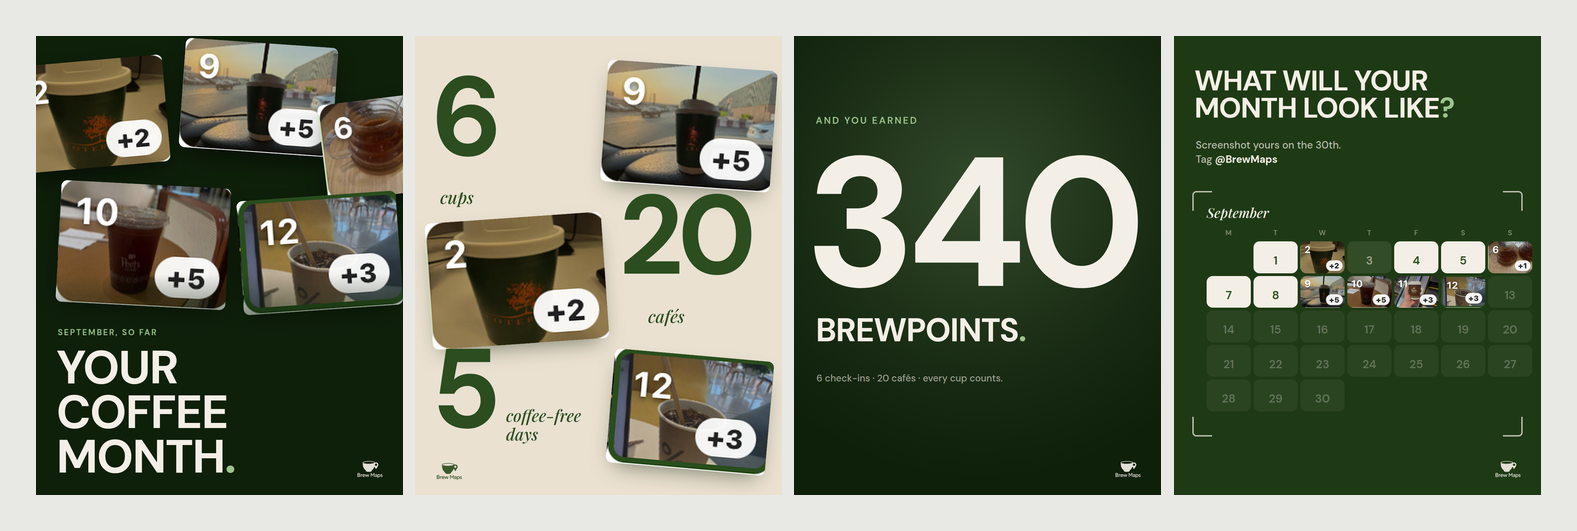
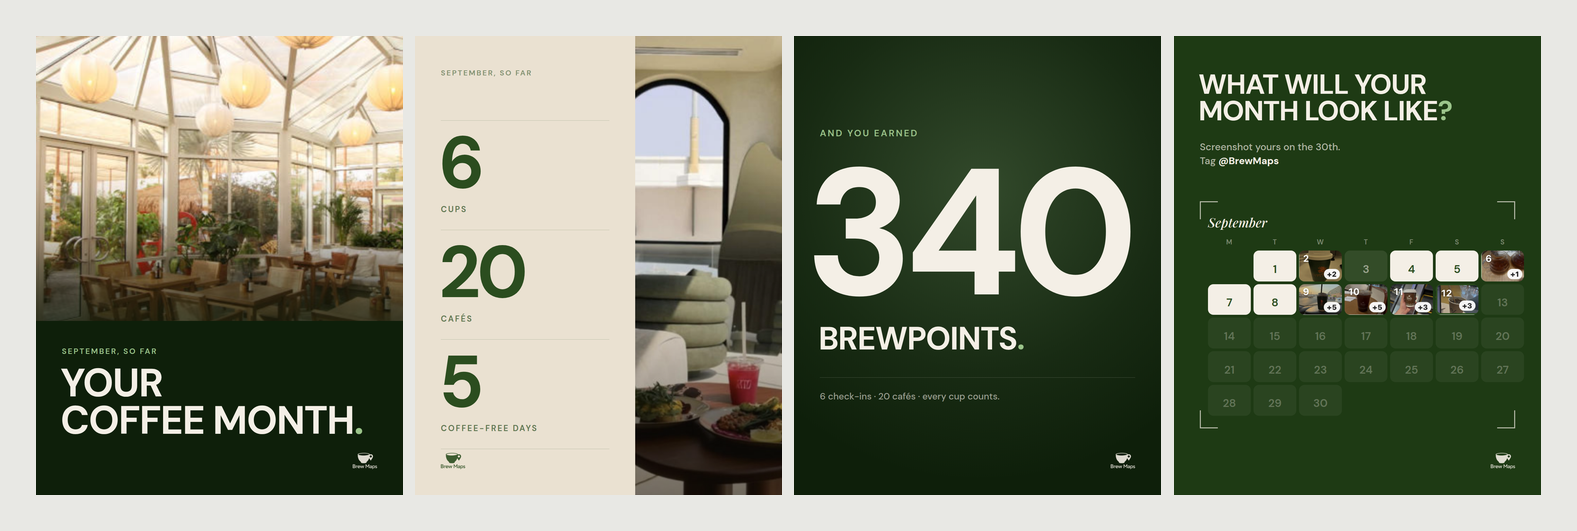
Rebuild Your Coffee Month on a strict grid with sharp photography
Replaces the enlarged calendar-cell crops with the 585x770 photography
from the Browse by Area cards, and drops every rotation and scattered
element for a single 76px margin and hairline-ruled stat column. Cup
photos now appear only inside the calendar at native size.

Claude-Session: https://claude.ai/code/session_01UCKVHF8Bj15Neb29ir5cAN

diff --git a/marketing/instagram/2026-09-coffee-month/source/wrap-4.html b/marketing/instagram/2026-09-coffee-month/source/wrap-4.html
@@ -1,13 +1,13 @@
 <link rel="stylesheet" href="base.css"><style>body{background:var(--deep);color:var(--cream);}</style>
-<h1 class="h abs" style="left:60px;top:92px;font-size:84px;">What will your<br>month look like<span style="color:var(--mint)">?</span></h1>
-<div class="abs" style="left:64px;top:300px;font-size:30px;font-weight:500;line-height:1.4;color:rgba(244,239,230,.72);">Screenshot yours on the 30th.<br>Tag <b style="color:var(--cream);font-weight:700;">@BrewMaps</b></div>
-<div class="abs" style="left:96px;top:492px;">
- <div class="serif" style="font-size:40px;font-style:italic;color:var(--cream);margin-bottom:20px;">September</div>
+<h1 class="h abs" style="left:72px;top:104px;font-size:82px;">What will your<br>month look like<span style="color:var(--mint)">?</span></h1>
+<div class="abs" style="left:76px;top:306px;font-size:29px;font-weight:500;line-height:1.42;color:rgba(244,239,230,.7);">Screenshot yours on the 30th.<br>Tag <b style="color:var(--cream);font-weight:700;">@BrewMaps</b></div>
+<div class="abs" style="left:100px;top:522px;">
+ <div class="serif" style="font-size:38px;font-style:italic;margin-bottom:20px;">September</div>
  
 <style>
-.calw{--tile:130px;--gap:8px;}
+.calw{--tile:126px;--gap:8px;}
 .cal{display:grid;grid-template-columns:repeat(7,var(--tile));gap:var(--gap);}
-.cal .t{width:var(--tile);height:calc(var(--tile)*0.72);border-radius:18px;display:flex;align-items:flex-end;justify-content:center;padding-bottom:calc(var(--tile)*0.12);box-sizing:border-box;font-family:"DM Sans";font-weight:600;font-size:calc(var(--tile)*0.26);overflow:hidden;position:relative;}
+.cal .t{width:var(--tile);height:calc(var(--tile)*0.72);border-radius:16px;display:flex;align-items:flex-end;justify-content:center;padding-bottom:calc(var(--tile)*0.12);box-sizing:border-box;font-family:"DM Sans";font-weight:600;font-size:calc(var(--tile)*0.26);overflow:hidden;position:relative;}
 .cal .t.p{padding:0;display:block;}
 .cal .t.p img{width:100%;height:100%;object-fit:cover;display:block;}
 .wd{display:grid;grid-template-columns:repeat(7,var(--tile));gap:var(--gap);font-family:"DM Sans";font-weight:600;font-size:calc(var(--tile)*0.16);letter-spacing:0.06em;text-align:center;margin-bottom:calc(var(--gap)*1.5);}
@@ -19,8 +19,8 @@
 .wd{color:rgba(244,239,230,0.45);}
 </style><div class="calw"><div class="wd"><span>M</span><span>T</span><span>W</span><span>T</span><span>F</span><span>S</span><span>S</span></div><div class="cal"><div class="t e"></div><div class="t c"><span>1</span></div><div class="t p"><img src="src/cell-sep-2.png"></div><div class="t x"><span>3</span></div><div class="t c"><span>4</span></div><div class="t c"><span>5</span></div><div class="t p"><img src="src/cell-sep-6.png"></div><div class="t c"><span>7</span></div><div class="t c"><span>8</span></div><div class="t p"><img src="src/cell-sep-9.png"></div><div class="t p"><img src="src/cell-sep-10.png"></div><div class="t p"><img src="src/cell-sep-11.png"></div><div class="t p"><img src="src/cell-sep-12.png"></div><div class="t f"><span>13</span></div><div class="t f"><span>14</span></div><div class="t f"><span>15</span></div><div class="t f"><span>16</span></div><div class="t f"><span>17</span></div><div class="t f"><span>18</span></div><div class="t f"><span>19</span></div><div class="t f"><span>20</span></div><div class="t f"><span>21</span></div><div class="t f"><span>22</span></div><div class="t f"><span>23</span></div><div class="t f"><span>24</span></div><div class="t f"><span>25</span></div><div class="t f"><span>26</span></div><div class="t f"><span>27</span></div><div class="t f"><span>28</span></div><div class="t f"><span>29</span></div><div class="t f"><span>30</span></div></div></div>
 </div>
-<div class="abs" style="left:54px;top:456px;width:54px;height:54px;border-left:4px solid rgba(244,239,230,.75);border-top:4px solid rgba(244,239,230,.75);border-radius:12px 0 0 0;"></div>
-<div class="abs" style="right:54px;top:456px;width:54px;height:54px;border-right:4px solid rgba(244,239,230,.75);border-top:4px solid rgba(244,239,230,.75);border-radius:0 12px 0 0;"></div>
-<div class="abs" style="left:54px;bottom:172px;width:54px;height:54px;border-left:4px solid rgba(244,239,230,.75);border-bottom:4px solid rgba(244,239,230,.75);border-radius:0 0 0 12px;"></div>
-<div class="abs" style="right:54px;bottom:172px;width:54px;height:54px;border-right:4px solid rgba(244,239,230,.75);border-bottom:4px solid rgba(244,239,230,.75);border-radius:0 0 12px 0;"></div>
-<img class="abs" src="src/logo-cream.png" style="right:60px;bottom:50px;width:74px;opacity:.92;">
+<div class="abs" style="left:76px;top:486px;width:50px;height:50px;border-left:3px solid rgba(244,239,230,.7);border-top:3px solid rgba(244,239,230,.7);"></div>
+<div class="abs" style="right:76px;top:486px;width:50px;height:50px;border-right:3px solid rgba(244,239,230,.7);border-top:3px solid rgba(244,239,230,.7);"></div>
+<div class="abs" style="left:76px;bottom:196px;width:50px;height:50px;border-left:3px solid rgba(244,239,230,.7);border-bottom:3px solid rgba(244,239,230,.7);"></div>
+<div class="abs" style="right:76px;bottom:196px;width:50px;height:50px;border-right:3px solid rgba(244,239,230,.7);border-bottom:3px solid rgba(244,239,230,.7);"></div>
+<img class="abs" src="src/logo-cream.png" style="right:76px;bottom:76px;width:72px;opacity:.9;">

diff --git a/marketing/instagram/2026-09-coffee-month/source/wrap-2.html b/marketing/instagram/2026-09-coffee-month/source/wrap-2.html
@@ -1,11 +1,14 @@
 <link rel="stylesheet" href="base.css"><style>body{background:var(--sand);color:var(--green);}</style>
-<div class="print" style="left:556px;top:86px;width:500px;height:358px;border-radius:18px;transform:rotate(4deg);box-shadow:0 28px 64px -26px rgba(14,31,10,.55);"><img src="src/photo-9.png"></div>
-<div class="abs num" style="left:48px;top:104px;font-size:330px;">6</div>
-<div class="abs serif" style="left:74px;top:440px;font-size:50px;font-style:italic;font-weight:500;">cups</div>
-<div class="print" style="left:40px;top:534px;width:520px;height:372px;border-radius:18px;transform:rotate(-4deg);box-shadow:0 28px 64px -26px rgba(14,31,10,.55);"><img src="src/photo-2.png"></div>
-<div class="abs num" style="left:600px;top:452px;font-size:330px;">20</div>
-<div class="abs serif" style="left:686px;top:790px;font-size:50px;font-style:italic;font-weight:500;">caf&eacute;s</div>
-<div class="print" style="left:574px;top:938px;width:470px;height:336px;border-radius:18px;transform:rotate(5deg);box-shadow:0 28px 64px -26px rgba(14,31,10,.55);"><img src="src/photo-12.png"></div>
-<div class="abs num" style="left:48px;top:904px;font-size:330px;">5</div>
-<div class="abs serif" style="left:268px;top:1088px;font-size:48px;font-style:italic;font-weight:500;line-height:1.14;">coffee-free<br>days</div>
-<img class="abs" src="src/logo-green.png" style="left:64px;bottom:44px;width:74px;opacity:.92;">
+<div class="ph" style="left:648px;top:0px;width:432px;height:1350px;"><img src="src/cafe-jumeirah.png"></div>
+<div class="abs kick" style="left:76px;top:94px;font-size:22px;opacity:.55;">September, so far</div>
+<div class="rule abs" style="left:76px;top:248px;width:496px;background:rgba(43,77,31,.22);"></div>
+<div class="abs num" style="left:70px;top:286px;font-size:214px;">6</div>
+<div class="abs kick" style="left:76px;top:494px;font-size:24px;opacity:.72;">cups</div>
+<div class="rule abs" style="left:76px;top:570px;width:496px;background:rgba(43,77,31,.22);"></div>
+<div class="abs num" style="left:70px;top:608px;font-size:214px;">20</div>
+<div class="abs kick" style="left:76px;top:816px;font-size:24px;opacity:.72;">cafés</div>
+<div class="rule abs" style="left:76px;top:892px;width:496px;background:rgba(43,77,31,.22);"></div>
+<div class="abs num" style="left:70px;top:930px;font-size:214px;">5</div>
+<div class="abs kick" style="left:76px;top:1138px;font-size:24px;opacity:.72;">coffee-free days</div>
+<div class="rule abs" style="left:76px;top:1214px;width:496px;background:rgba(43,77,31,.22);"></div>
+<img class="abs" src="src/logo-green.png" style="left:76px;bottom:76px;width:72px;opacity:.9;">

diff --git a/marketing/instagram/2026-09-coffee-month/source/wrap-1.html b/marketing/instagram/2026-09-coffee-month/source/wrap-1.html
@@ -1,10 +1,6 @@
 <link rel="stylesheet" href="base.css"><style>body{background:var(--night);color:var(--cream);}</style>
-<div class="print" style="left:-56px;top:72px;width:440px;height:315px;border-radius:18px;transform:rotate(-5deg);box-shadow:0 30px 70px -24px rgba(0,0,0,.7);"><img src="src/photo-2.png"></div>
-<div class="print" style="left:430px;top:20px;width:450px;height:322px;border-radius:18px;transform:rotate(4deg);box-shadow:0 30px 70px -24px rgba(0,0,0,.7);"><img src="src/photo-9.png"></div>
-<div class="print" style="left:842px;top:180px;width:400px;height:286px;border-radius:18px;transform:rotate(-7deg);box-shadow:0 30px 70px -24px rgba(0,0,0,.7);"><img src="src/photo-6.png"></div>
-<div class="print" style="left:66px;top:436px;width:500px;height:358px;border-radius:18px;transform:rotate(3deg);box-shadow:0 30px 70px -24px rgba(0,0,0,.7);"><img src="src/photo-10.png"></div>
-<div class="print" style="left:600px;top:470px;width:470px;height:336px;border-radius:18px;transform:rotate(-4deg);box-shadow:0 30px 70px -24px rgba(0,0,0,.7);"><img src="src/photo-12.png"></div>
-<div class="abs" style="left:0;top:700px;width:1080px;height:300px;background:linear-gradient(to bottom,rgba(14,31,10,0),var(--night) 78%);"></div>
-<div class="abs kick" style="left:64px;top:856px;font-size:24px;color:var(--mint);">September, so far</div>
-<h1 class="h abs" style="left:60px;top:910px;font-size:138px;">Your<br>coffee month<span style="color:var(--mint)">.</span></h1>
-<img class="abs" src="src/logo-cream.png" style="right:60px;bottom:50px;width:74px;opacity:.92;">
+<div class="ph" style="left:0px;top:0px;width:1080px;height:838px;"><img src="src/cafe-alquoz.png"></div>
+<div class="abs" style="left:0;top:600px;width:1080px;height:238px;background:linear-gradient(to bottom,rgba(14,31,10,0),rgba(14,31,10,.55));"></div>
+<div class="abs kick" style="left:76px;top:912px;font-size:23px;color:var(--mint);">September, so far</div>
+<h1 class="h abs" style="left:72px;top:966px;font-size:116px;">Your<br>coffee month<span style="color:var(--mint)">.</span></h1>
+<img class="abs" src="src/logo-cream.png" style="right:76px;bottom:76px;width:72px;opacity:.9;">

diff --git a/marketing/instagram/2026-09-coffee-month/source/wrap-3.html b/marketing/instagram/2026-09-coffee-month/source/wrap-3.html
@@ -1,7 +1,8 @@
 <link rel="stylesheet" href="base.css"><style>body{background:var(--night);color:var(--cream);}</style>
 <div class="abs" style="left:-340px;top:-400px;width:1780px;height:1700px;border-radius:50%;background:radial-gradient(circle,rgba(155,196,138,.26) 0%,rgba(155,196,138,.07) 44%,rgba(14,31,10,0) 70%);"></div>
-<div class="abs kick" style="left:64px;top:230px;font-size:28px;color:var(--mint);">And you earned</div>
-<div class="abs num" style="left:34px;top:330px;font-size:540px;">340</div>
-<h1 class="h abs" style="left:64px;top:820px;font-size:96px;">BrewPoints<span style="color:var(--mint)">.</span></h1>
-<div class="abs" style="left:66px;top:988px;font-size:28px;font-weight:500;color:rgba(244,239,230,.62);">6 check-ins · 20 cafés · every cup counts.</div>
-<img class="abs" src="src/logo-cream.png" style="right:60px;bottom:50px;width:74px;opacity:.92;">
+<div class="abs kick" style="left:76px;top:268px;font-size:27px;color:var(--mint);">And you earned</div>
+<div class="abs num" style="left:34px;top:364px;font-size:528px;">340</div>
+<h1 class="h abs" style="left:72px;top:846px;font-size:94px;">BrewPoints<span style="color:var(--mint)">.</span></h1>
+<div class="rule abs" style="left:76px;top:1004px;width:928px;background:rgba(244,239,230,.2);"></div>
+<div class="abs" style="left:76px;top:1042px;font-size:27px;font-weight:500;color:rgba(244,239,230,.6);">6 check-ins · 20 cafés · every cup counts.</div>
+<img class="abs" src="src/logo-cream.png" style="right:76px;bottom:76px;width:72px;opacity:.9;">

diff --git a/marketing/instagram/2026-09-coffee-month/source/base.css b/marketing/instagram/2026-09-coffee-month/source/base.css
@@ -12,3 +12,6 @@ body{width:1080px;height:1350px;position:relative;overflow:hidden;font-family:"D
 .print img{width:100%;height:100%;object-fit:cover;display:block;}
 .mosaic{position:absolute;display:grid;overflow:hidden;}
 .mosaic img{width:100%;height:100%;object-fit:cover;display:block;}
+.ph{position:absolute;overflow:hidden;}
+.ph img{width:100%;height:100%;object-fit:cover;display:block;}
+.rule{position:absolute;height:1px;}

diff --git a/marketing/instagram/2026-09-coffee-month/source/build_final.py b/marketing/instagram/2026-09-coffee-month/source/build_final.py
@@ -1,61 +1,58 @@
 from data import *
 from cal import calendar
 H='<link rel="stylesheet" href="base.css">'
-LC='<img class="abs" src="src/logo-cream.png" style="right:60px;bottom:50px;width:74px;opacity:.92;">'
-LG='<img class="abs" src="src/logo-green.png" style="right:60px;bottom:50px;width:74px;opacity:.92;">'
-AR=123/172.0
-def tile(x,y,w,i,rot=0,r=18,dark=False):
-    h=round(w*AR)
-    sh='0 30px 70px -24px rgba(0,0,0,.7)' if dark else '0 28px 64px -26px rgba(14,31,10,.55)'
-    return (f'<div class="print" style="left:{x}px;top:{y}px;width:{w}px;height:{h}px;'
-            f'border-radius:{r}px;transform:rotate({rot}deg);box-shadow:{sh};"><img src="src/photo-{i}.png"></div>')
+M=76  # single margin, every slide
+LC=f'<img class="abs" src="src/logo-cream.png" style="right:{M}px;bottom:{M}px;width:72px;opacity:.9;">'
+LG=f'<img class="abs" src="src/logo-green.png" style="right:{M}px;bottom:{M}px;width:72px;opacity:.9;">'
+def ph(x,y,w,h,name):
+    return f'<div class="ph" style="left:{x}px;top:{y}px;width:{w}px;height:{h}px;"><img src="src/cafe-{name}.png"></div>'
 
-# ── 1  HOOK — night green, prints scattered, immersive
+# 1 HOOK — one full-bleed photograph, one hard horizontal edge, type below it
 S1=f'''{H}<style>body{{background:var(--night);color:var(--cream);}}</style>
-{tile(-56,72,440,2,-5,dark=True)}
-{tile(430,20,450,9,4,dark=True)}
-{tile(842,180,400,6,-7,dark=True)}
-{tile(66,436,500,10,3,dark=True)}
-{tile(600,470,470,12,-4,dark=True)}
-<div class="abs" style="left:0;top:700px;width:1080px;height:300px;background:linear-gradient(to bottom,rgba(14,31,10,0),var(--night) 78%);"></div>
-<div class="abs kick" style="left:64px;top:856px;font-size:24px;color:var(--mint);">{MONTH}, so far</div>
-<h1 class="h abs" style="left:60px;top:910px;font-size:138px;">Your<br>coffee month<span style="color:var(--mint)">.</span></h1>
+{ph(0,0,1080,838,'alquoz')}
+<div class="abs" style="left:0;top:600px;width:1080px;height:238px;background:linear-gradient(to bottom,rgba(14,31,10,0),rgba(14,31,10,.55));"></div>
+<div class="abs kick" style="left:{M}px;top:912px;font-size:23px;color:var(--mint);">{MONTH}, so far</div>
+<h1 class="h abs" style="left:{M-4}px;top:966px;font-size:116px;">Your<br>coffee month<span style="color:var(--mint)">.</span></h1>
 {LC}'''
 
-# ── 2  STATS — sand, editorial asymmetry, no KPI columns
+# 2 STATS — cream, one strict column of rules, one full-height photo column
 S2=f'''{H}<style>body{{background:var(--sand);color:var(--green);}}</style>
-{tile(556,86,500,9,4)}
-<div class="abs num" style="left:48px;top:104px;font-size:330px;">{CUPS}</div>
-<div class="abs serif" style="left:74px;top:440px;font-size:50px;font-style:italic;font-weight:500;">cups</div>
-{tile(40,534,520,2,-4)}
-<div class="abs num" style="left:600px;top:452px;font-size:330px;">{CAFES}</div>
-<div class="abs serif" style="left:686px;top:790px;font-size:50px;font-style:italic;font-weight:500;">caf&eacute;s</div>
-{tile(574,938,470,12,5)}
-<div class="abs num" style="left:48px;top:904px;font-size:330px;">{FREE_DAYS}</div>
-<div class="abs serif" style="left:268px;top:1088px;font-size:48px;font-style:italic;font-weight:500;line-height:1.14;">coffee-free<br>days</div>
-<img class="abs" src="src/logo-green.png" style="left:64px;bottom:44px;width:74px;opacity:.92;">'''
+{ph(648,0,432,1350,'jumeirah')}
+<div class="abs kick" style="left:{M}px;top:{M+18}px;font-size:22px;opacity:.55;">{MONTH}, so far</div>
+<div class="rule abs" style="left:{M}px;top:248px;width:496px;background:rgba(43,77,31,.22);"></div>
+<div class="abs num" style="left:{M-6}px;top:286px;font-size:214px;">{CUPS}</div>
+<div class="abs kick" style="left:{M}px;top:494px;font-size:24px;opacity:.72;">cups</div>
+<div class="rule abs" style="left:{M}px;top:570px;width:496px;background:rgba(43,77,31,.22);"></div>
+<div class="abs num" style="left:{M-6}px;top:608px;font-size:214px;">{CAFES}</div>
+<div class="abs kick" style="left:{M}px;top:816px;font-size:24px;opacity:.72;">cafés</div>
+<div class="rule abs" style="left:{M}px;top:892px;width:496px;background:rgba(43,77,31,.22);"></div>
+<div class="abs num" style="left:{M-6}px;top:930px;font-size:214px;">{FREE_DAYS}</div>
+<div class="abs kick" style="left:{M}px;top:1138px;font-size:24px;opacity:.72;">coffee-free days</div>
+<div class="rule abs" style="left:{M}px;top:1214px;width:496px;background:rgba(43,77,31,.22);"></div>
+<img class="abs" src="src/logo-green.png" style="left:{M}px;bottom:{M}px;width:72px;opacity:.9;">'''
 
-# ── 3  REWARD — near-black, colossal number, nothing competing
+# 3 REWARD — pure typography, the largest element in the carousel
 S3=f'''{H}<style>body{{background:var(--night);color:var(--cream);}}</style>
 <div class="abs" style="left:-340px;top:-400px;width:1780px;height:1700px;border-radius:50%;background:radial-gradient(circle,rgba(155,196,138,.26) 0%,rgba(155,196,138,.07) 44%,rgba(14,31,10,0) 70%);"></div>
-<div class="abs kick" style="left:64px;top:230px;font-size:28px;color:var(--mint);">And you earned</div>
-<div class="abs num" style="left:34px;top:330px;font-size:540px;">{POINTS_PLACEHOLDER}</div>
-<h1 class="h abs" style="left:64px;top:820px;font-size:96px;">BrewPoints<span style="color:var(--mint)">.</span></h1>
-<div class="abs" style="left:66px;top:988px;font-size:28px;font-weight:500;color:rgba(244,239,230,.62);">{CUPS} check-ins · {CAFES} cafés · every cup counts.</div>
+<div class="abs kick" style="left:{M}px;top:268px;font-size:27px;color:var(--mint);">And you earned</div>
+<div class="abs num" style="left:{M-42}px;top:364px;font-size:528px;">{POINTS_PLACEHOLDER}</div>
+<h1 class="h abs" style="left:{M-4}px;top:846px;font-size:94px;">BrewPoints<span style="color:var(--mint)">.</span></h1>
+<div class="rule abs" style="left:{M}px;top:1004px;width:{1080-2*M}px;background:rgba(244,239,230,.2);"></div>
+<div class="abs" style="left:{M}px;top:1042px;font-size:27px;font-weight:500;color:rgba(244,239,230,.6);">{CUPS} check-ins · {CAFES} cafés · every cup counts.</div>
 {LC}'''
 
-# ── 4  SHARE — deep green card, the real calendar, screenshot cue
+# 4 SHARE — the real calendar at native tile size, strict margins
 S4=f'''{H}<style>body{{background:var(--deep);color:var(--cream);}}</style>
-<h1 class="h abs" style="left:60px;top:92px;font-size:84px;">What will your<br>month look like<span style="color:var(--mint)">?</span></h1>
-<div class="abs" style="left:64px;top:300px;font-size:30px;font-weight:500;line-height:1.4;color:rgba(244,239,230,.72);">Screenshot yours on the 30th.<br>Tag <b style="color:var(--cream);font-weight:700;">@BrewMaps</b></div>
-<div class="abs" style="left:96px;top:492px;">
- <div class="serif" style="font-size:40px;font-style:italic;color:var(--cream);margin-bottom:20px;">{MONTH}</div>
- {calendar('dark',tile=130,gap=8,rows=5,radius=18)}
+<h1 class="h abs" style="left:{M-4}px;top:104px;font-size:82px;">What will your<br>month look like<span style="color:var(--mint)">?</span></h1>
+<div class="abs" style="left:{M}px;top:306px;font-size:29px;font-weight:500;line-height:1.42;color:rgba(244,239,230,.7);">Screenshot yours on the 30th.<br>Tag <b style="color:var(--cream);font-weight:700;">@BrewMaps</b></div>
+<div class="abs" style="left:{M+24}px;top:522px;">
+ <div class="serif" style="font-size:38px;font-style:italic;margin-bottom:20px;">{MONTH}</div>
+ {calendar('dark',tile=126,gap=8,rows=5,radius=16)}
 </div>
-<div class="abs" style="left:54px;top:456px;width:54px;height:54px;border-left:4px solid rgba(244,239,230,.75);border-top:4px solid rgba(244,239,230,.75);border-radius:12px 0 0 0;"></div>
-<div class="abs" style="right:54px;top:456px;width:54px;height:54px;border-right:4px solid rgba(244,239,230,.75);border-top:4px solid rgba(244,239,230,.75);border-radius:0 12px 0 0;"></div>
-<div class="abs" style="left:54px;bottom:172px;width:54px;height:54px;border-left:4px solid rgba(244,239,230,.75);border-bottom:4px solid rgba(244,239,230,.75);border-radius:0 0 0 12px;"></div>
-<div class="abs" style="right:54px;bottom:172px;width:54px;height:54px;border-right:4px solid rgba(244,239,230,.75);border-bottom:4px solid rgba(244,239,230,.75);border-radius:0 0 12px 0;"></div>
+<div class="abs" style="left:{M}px;top:486px;width:50px;height:50px;border-left:3px solid rgba(244,239,230,.7);border-top:3px solid rgba(244,239,230,.7);"></div>
+<div class="abs" style="right:{M}px;top:486px;width:50px;height:50px;border-right:3px solid rgba(244,239,230,.7);border-top:3px solid rgba(244,239,230,.7);"></div>
+<div class="abs" style="left:{M}px;bottom:196px;width:50px;height:50px;border-left:3px solid rgba(244,239,230,.7);border-bottom:3px solid rgba(244,239,230,.7);"></div>
+<div class="abs" style="right:{M}px;bottom:196px;width:50px;height:50px;border-right:3px solid rgba(244,239,230,.7);border-bottom:3px solid rgba(244,239,230,.7);"></div>
 {LC}'''
 for n,c in [('wrap-1',S1),('wrap-2',S2),('wrap-3',S3),('wrap-4',S4)]:
     open(n+'.html','w').write(c)

diff --git a/marketing/instagram/2026-09-coffee-month/CAPTION.md b/marketing/instagram/2026-09-coffee-month/CAPTION.md
@@ -31,7 +31,12 @@ Four slides. A collage of six coffee photos from a BrewMaps calendar under the h
 
 | # | Role | Treatment |
 |---|---|---|
-| 1 | Hook | Night green, five real cup photos as scattered prints, headline sunk into the dark |
-| 2 | Stats | Warm sand, three oversized numerals interlocked with prints, no KPI columns |
-| 3 | Reward | Near-black with a soft mint field, the BrewPoints number as the largest element in the carousel |
-| 4 | Share | Deep green, the real September calendar inside viewfinder marks |
+| 1 | Hook | One full-bleed café photograph, hard horizontal edge, headline on solid green below |
+| 2 | Stats | Warm sand. Three numerals on hairline rules in one column, full-height photo column right |
+| 3 | Reward | Near-black with a soft mint field. Pure typography, the largest element in the carousel |
+| 4 | Share | Deep green, the real September calendar at native tile size inside screenshot marks |
+
+Photography comes from the Browse by Area cards at 585 × 770, not from the calendar cells, which are
+only 172 × 123 and go soft the moment they are enlarged. The cup photos appear only inside the
+calendar on slide 4, at or below their native size, where they stay sharp.
+Every element sits on a single 76px margin. No rotation anywhere.
